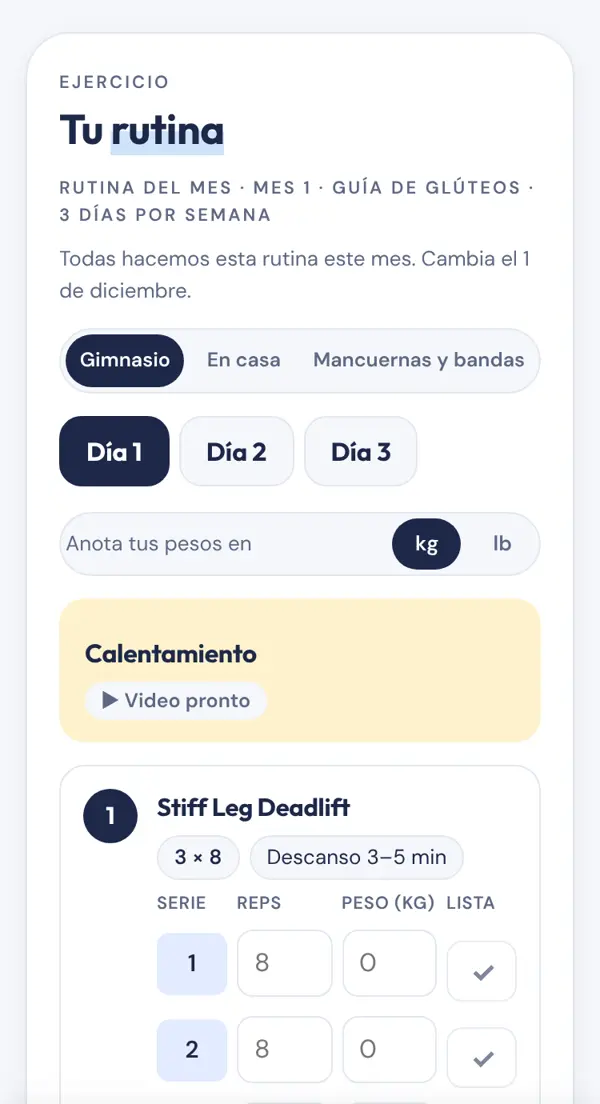
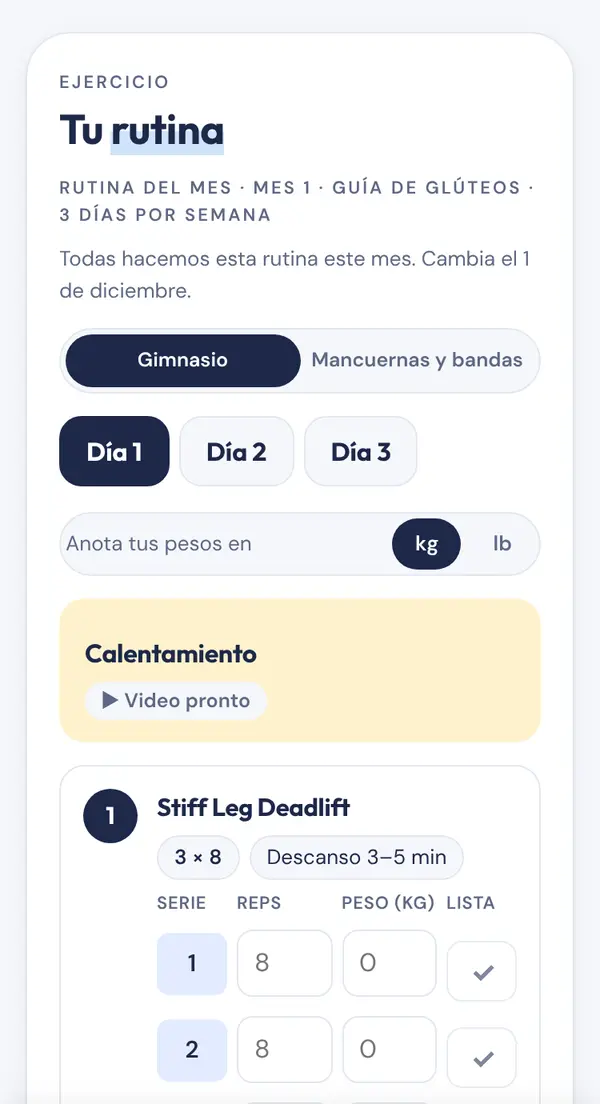
Rutina sin 'En casa', domingo con menú opcional y última vez que abrió la app
Claude-Session: https://claude.ai/code/session_01S2tUWvQ5tkvfoDM66tmKiz

Changed region(s): [[0.12, 0.2772, 0.87, 0.3696]]

diff --git a/app/mi-plan/Super.tsx b/app/mi-plan/Super.tsx
@@ -1,7 +1,7 @@
 "use client";
 import { useEffect, useMemo, useState } from "react";
 import { cantidad, icono, type Ingrediente } from "@/lib/alimentos";
-import { DIAS, TIEMPOS, type Dia, type Plan } from "@/lib/types";
+import { DIAS7, TIEMPOS, diasDe, type Dia, type Plan } from "@/lib/types";
 import { comidaDe, slotDe } from "./Comidas";
 
 const SECCIONES: [RegExp, string][] = [
@@ -13,10 +13,11 @@ const seccion = (i: Ingrediente) => (i.s === "sup" ? "💊 Suplementos y bebidas
 type Modo = "dia" | "semana" | "mes";
 const MODOS: [Modo, string][] = [["dia", "Un día"], ["semana", "Esta semana"], ["mes", "Todo el mes"]];
 
-/** Lista del súper que sale del menú que eligió la paciente, con sus cambios. Lunes a sábado; el domingo es libre. */
+/** Lista del súper que sale del menú que eligió la paciente, con sus cambios. Lunes a sábado, y el domingo si tiene menú. */
 export default function Super({ plan, cambios, orden, planId }: { plan: Plan; cambios: Record<string, Ingrediente>; orden: Record<string, Dia>; planId: string | null }) {
   const [modo, setModoE] = useState<Modo>("semana");
-  const [dia, setDia] = useState<Dia>(() => DIAS[Math.min((new Date().getDay() + 6) % 7, 5)]); // hoy; el domingo, el lunes
+  const dias = diasDe(plan);
+  const [dia, setDia] = useState<Dia>(() => DIAS7[Math.min((new Date().getDay() + 6) % 7, dias.length - 1)]); // hoy; el domingo libre, el sábado
   useEffect(() => { try { const m = localStorage.getItem("super-modo") as Modo | null; if (m && MODOS.some(([k]) => k === m)) setModoE(m); } catch {} }, []);
   const setModo = (m: Modo) => { setModoE(m); try { localStorage.setItem("super-modo", m); } catch {} };
   const key = `super-${planId ?? "plan"}-${modo === "dia" ? `dia-${dia}` : modo}`;
@@ -27,7 +28,7 @@ export default function Super({ plan, cambios, orden, planId }: { plan: Plan; ca
   const { grupos, sinIngredientes } = useMemo(() => {
     const total = new Map<string, { a: Ingrediente; x: number }>();
     const sin: string[] = [];
-    for (const d of modo === "dia" ? [dia] : DIAS)
+    for (const d of modo === "dia" ? [dia] : dias)
       TIEMPOS.forEach((_, i) => {
         const { m, src } = comidaDe(plan, orden, d, i);
         if (!m.titulo) return;
@@ -43,7 +44,7 @@ export default function Super({ plan, cambios, orden, planId }: { plan: Plan; ca
     for (const t of total.values()) g.set(seccion(t.a), [...(g.get(seccion(t.a)) ?? []), t]);
     const orden_ = [...SECCIONES.map(([, n]) => n), "💊 Suplementos y bebidas", "🧂 Otros"];
     return { grupos: [...g.entries()].sort((a, b) => orden_.indexOf(a[0]) - orden_.indexOf(b[0])).map(([n, xs]) => [n, xs.sort((p, q) => p.a.n.localeCompare(q.a.n, "es"))] as const), sinIngredientes: sin };
-  }, [plan, cambios, orden, modo, dia]);
+  }, [plan, cambios, orden, modo, dia, dias]);
 
   const mult = modo === "mes" ? 4 : 1;
   return (
@@ -54,14 +55,14 @@ export default function Super({ plan, cambios, orden, planId }: { plan: Plan; ca
         ))}
       </div>
       {modo === "dia" && (
-        <div className="daychips" role="group" aria-label="Día" style={{ display: "grid", gridTemplateColumns: "repeat(6, 1fr)", gap: 6 }}>
-          {DIAS.map((d) => (
+        <div className="daychips" role="group" aria-label="Día" style={{ display: "grid", gridTemplateColumns: `repeat(${dias.length}, 1fr)`, gap: 6 }}>
+          {dias.map((d) => (
             <button key={d} aria-pressed={dia === d} onClick={() => setDia(d)} style={{ width: "100%", minWidth: 0, padding: 0, height: 40, fontSize: 14 }}><b>{d.slice(0, 3)}</b></button>
           ))}
         </div>
       )}
       <p className="note" style={{ margin: 0 }}>
-        {modo === "dia" ? `Lo que necesitas para tus comidas del ${dia.toLowerCase()}.` : modo === "semana" ? "De lunes a sábado, con los platillos y cambios que elegiste." : "4 semanas con tu menú de ahora. Las verduras y la fruta fresca, mejor cómpralas cada semana."}
+        {modo === "dia" ? `Lo que necesitas para tus comidas del ${dia.toLowerCase()}.` : modo === "semana" ? `De lunes a ${dias.length === 7 ? "domingo" : "sábado"}, con los platillos y cambios que elegiste.` : "4 semanas con tu menú de ahora. Las verduras y la fruta fresca, mejor cómpralas cada semana."}
         {" "}Si cambias un platillo o un alimento, la lista se actualiza sola.
       </p>
       {grupos.length === 0 && <div className="locked">Tu menú todavía no tiene ingredientes con cantidades. Cecy los agrega en tu plan.</div>}

diff --git a/app/mi-plan/PatientApp.tsx b/app/mi-plan/PatientApp.tsx
@@ -1,7 +1,7 @@
 "use client";
 import { useEffect, useState } from "react";
 import Link from "next/link";
-import { DIAS, TIEMPOS, type Patient, type Plan, type Rutina } from "@/lib/types";
+import { DIAS7, TIEMPOS, tieneDomingo, type Patient, type Plan, type Rutina } from "@/lib/types";
 import { CALENTAMIENTO } from "@/lib/gluteos";
 import { mesDelCiclo, proximoCambio } from "@/lib/ciclo";
 import { MealCard, useGustos, type Gustos, comidaDe, opcionesDe, slotDe, useCambios, useOrden, type Cambios, type Orden, TiendaAbierta } from "./Comidas";
@@ -196,10 +196,11 @@ function Hoy({ p, plan, planExiste, planId, planDesde, cambios, orden, diario, g
   if (!plan) return <><Locked planExiste={planExiste} /><Metas p={p} /><Whats /></>;
   const d = di ?? 0;
   const esHoy = d === hoyIdx;
+  const conMenu = d < 6 || tieneDomingo(plan); // el domingo es libre si no trae menú
   const fecha = hoyISO();
   const listas = diario[0][fecha]?.comidas ?? [];
-  const delDia = d < 6 ? TIEMPOS.map((_, i) => {
-    const { m, src } = comidaDe(plan, orden[0], DIAS[d], i);
+  const delDia = conMenu ? TIEMPOS.map((_, i) => {
+    const { m, src } = comidaDe(plan, orden[0], DIAS7[d], i);
     return { ...m, ingredientes: m.ingredientes?.map((o, j) => cambios[0][slotDe(src, i, j)] ?? o) };
   }) : [];
   const aportes = aporte(delDia, plan.meta ?? "comidas");
@@ -216,22 +217,22 @@ function Hoy({ p, plan, planExiste, planId, planDesde, cambios, orden, diario, g
       {p.proxima_cita && <div className="card proxima"><span aria-hidden="true">📅</span><span><span className="eyebrow">Tu próxima consulta</span><br /><b>{p.proxima_cita}</b></span></div>}
       <div className="daychips" aria-label="Día">
         {CORTO.map((l, i) => (
-          <button key={l} aria-pressed={i === d} onClick={() => setDi(i)} aria-label={i === 6 ? "Domingo" : DIAS[i]}>
+          <button key={l} aria-pressed={i === d} onClick={() => setDi(i)} aria-label={DIAS7[i]}>
             <b>{l[0]}</b>{l}
           </button>
         ))}
       </div>
-      <div className="eyebrow">{d === 6 ? "Domingo" : DIAS[d]}</div>
-      {esHoy && d < 6 && plan.meta && <MetaBar meta={plan.meta} aportes={aportes} listas={listas} />}
-      {d === 6 ? (
+      <div className="eyebrow">{DIAS7[d]}</div>
+      {esHoy && conMenu && plan.meta && <MetaBar meta={plan.meta} aportes={aportes} listas={listas} />}
+      {!conMenu ? (
         <div className="tint t-yellow"><h4>🌤 Domingo libre</h4><p>{plan.domingo}</p></div>
       ) : (
         TIEMPOS.map((_, i) => {
-          const { m, src } = comidaDe(plan, orden[0], DIAS[d], i);
+          const { m, src } = comidaDe(plan, orden[0], DIAS7[d], i);
           return m.titulo ? (
             <MealCard key={`${d}-${i}-${src}`} m={m} hora={plan.horarios?.[i] ?? TIEMPOS[i][1]} tiempo={TIEMPOS[i][0]} tintClass={MEAL_TINT[i]}
               slot={(j) => slotDe(src, i, j)} cambios={cambios} sistema={plan.sistema ?? "smae"}
-              opciones={opcionesDe(plan, i).map((o) => [o, plan.menu[o][i].titulo])} actual={src} onElegir={(o) => orden[1](DIAS[d], i, o)}
+              opciones={opcionesDe(plan, i).map((o) => [o, plan.menu[o][i].titulo])} actual={src} onElegir={(o) => orden[1](DIAS7[d], i, o)}
               {...(esHoy ? { lista: listas.includes(i), onLista: () => marcar(i) } : {})}
               gusto={gustos[0][m.titulo]} onGusto={(v) => gustos[1](m.titulo, v)} />
           ) : null;
@@ -288,7 +289,8 @@ function RutinaView({ rutina: fija, ciclo, videos, pid, remoto }: { rutina: Ruti
       <div className="eyebrow">{ciclo?.length ? `Rutina del mes · Mes ${mes + 1} · ` : ""}{rutina.titulo} · {rutina.subtitulo}</div>
       {ciclo?.length ? <p className="note" style={{ margin: "-4px 0 0" }}>{t("Todas hacemos")} esta rutina este mes. Cambia el {proximoCambio()}.</p> : null}
       <div className="seg" role="group" aria-label="Dónde entrenas" style={{ display: "flex" }}>
-        {(["a", "b", "c"] as const).map((k, i) => (
+        {/* Cecy quitó la opción "En casa" (b): solo gimnasio y mancuernas y bandas */}
+        {([["a", 0], ["c", 2]] as const).map(([k, i]) => (
           <button key={k} aria-pressed={o === k} onClick={() => setO(k)} style={{ flex: 1, padding: "7px 6px", fontSize: 12.5 }}>{rutina.opciones[i]}</button>
         ))}
       </div>

diff --git a/app/consultorio/[id]/PlanEditor.tsx b/app/consultorio/[id]/PlanEditor.tsx
@@ -1,6 +1,6 @@
 "use client";
 import { useState, useTransition } from "react";
-import { COLORES, DIAS, GRUPOS, TIEMPOS, planVacio, type Color, type Plan } from "@/lib/types";
+import { COLORES, DIAS7, GRUPOS, TIEMPOS, planVacio, type Color, type Plan } from "@/lib/types";
 import { tint } from "@/components/shared";
 import { guardarPlan } from "../actions";
 import BuscarAlimento from "@/components/BuscarAlimento";
@@ -16,7 +16,7 @@ function normalizar(x: unknown): Plan {
   const base = planVacio();
   const p = { ...base, ...(x as Partial<Plan>) };
   p.menu = { ...base.menu, ...(p.menu ?? {}) };
-  for (const d of DIAS)
+  for (const d of DIAS7)
     p.menu[d] = TIEMPOS.map((_, i) => {
       const m = p.menu[d]?.[i];
       return { titulo: m?.titulo ?? "", detalle: m?.detalle ?? "", ...(m?.ingredientes?.length ? { ingredientes: m.ingredientes } : {}), ...(m?.recomendacion ? { recomendacion: m.recomendacion } : {}) };
@@ -194,8 +194,8 @@ export default function PlanEditor({ id, planId, inicial, anteriores }: { id: st
       </div>
 
       <div className="card">
-        <h3>Menú de lunes a sábado</h3>
-        <p className="note" style={{ marginTop: -4 }}>Arroz, pasta y leguminosas se miden ya cocidos. Deja vacío un tiempo de comida para que no aparezca. Con ingredientes, ella ve la cantidad de cada uno y puede tocar Cambiar; el texto queda como nota de preparación.</p>
+        <h3>Menú de la semana</h3>
+        <p className="note" style={{ marginTop: -4 }}>Arroz, pasta y leguminosas se miden ya cocidos. Deja vacío un tiempo de comida para que no aparezca. Si dejas todo el domingo vacío, a ella le sale como domingo libre. Con ingredientes, ella ve la cantidad de cada uno y puede tocar Cambiar; el texto queda como nota de preparación.</p>
         <label className="field" style={{ maxWidth: 320, marginBottom: 10 }}>Lista de alimentos para los cambios
           <select value={plan.sistema ?? "smae"} onChange={(e) => up((p) => { p.sistema = e.target.value as "smae" | "renal"; })}>
             <option value="smae">SMAE + europeos</option>
@@ -203,7 +203,7 @@ export default function PlanEditor({ id, planId, inicial, anteriores }: { id: st
           </select>
         </label>
         <div className="menu-grid">
-          {DIAS.map((d) => (
+          {DIAS7.map((d) => (
             <div key={d} className="day">
               <h4>{d}</h4>
               {TIEMPOS.map((t, i) => (
@@ -238,7 +238,7 @@ export default function PlanEditor({ id, planId, inicial, anteriores }: { id: st
             </div>
           ))}
         </div>
-        <label className="field" style={{ marginTop: 12 }}>Domingo libre<textarea value={plan.domingo} onChange={(e) => up((p) => { p.domingo = e.target.value; })} /></label>
+        <label className="field" style={{ marginTop: 12 }}>Domingo libre (solo si el domingo no tiene menú)<textarea value={plan.domingo} onChange={(e) => up((p) => { p.domingo = e.target.value; })} /></label>
       </div>
 
       <div className="card">

diff --git a/app/consultorio/PatientList.tsx b/app/consultorio/PatientList.tsx
@@ -1,12 +1,15 @@
 "use client";
 import Link from "next/link";
-import { useState } from "react";
+import { useEffect, useState } from "react";
+import { diasSinAbrir, haceCuanto } from "@/lib/visita";
 
-type Row = { id: string; nombre: string; ciudad: string | null; proxima_cita: string | null };
+type Row = { id: string; nombre: string; ciudad: string | null; proxima_cita: string | null; user_id?: string | null; ultima_visita?: string | null };
 const COLORS = ["var(--pink)", "var(--blue)", "var(--yellow)", "var(--green)", "var(--lilac)"];
 
 export default function PatientList({ rows, current }: { rows: Row[]; current?: string }) {
   const [q, setQ] = useState("");
+  const [ahora, setAhora] = useState<Date | null>(null); // la fecha se calcula en su teléfono, no en el servidor
+  useEffect(() => setAhora(new Date()), []);
   const list = rows.filter((r) => r.nombre.toLowerCase().includes(q.toLowerCase()));
   return (
     <>
@@ -16,7 +19,8 @@ export default function PatientList({ rows, current }: { rows: Row[]; current?: 
           <li key={x.id}>
             <Link className="pbtn" href={`/consultorio/${x.id}`} aria-current={x.id === current}>
               <span className="av" style={{ background: COLORS[i % COLORS.length] }}>{x.nombre.split(" ").map((w) => w[0]).join("").slice(0, 2)}</span>
-              <span><span className="n">{x.nombre}</span><br /><span className="s">{[x.ciudad, x.proxima_cita && `cita: ${x.proxima_cita}`].filter(Boolean).join(" · ")}</span></span>
+              <span><span className="n">{x.nombre}</span><br /><span className="s">{[x.ciudad, x.proxima_cita && `cita: ${x.proxima_cita}`].filter(Boolean).join(" · ")}</span>
+                {ahora && x.user_id && <><br /><span className={`s visto ${(diasSinAbrir(x.ultima_visita, ahora) ?? 99) >= 4 ? "lejos" : ""}`}>📱 {x.ultima_visita ? `Abrió la app: ${haceCuanto(x.ultima_visita, ahora).toLowerCase()}` : "Todavía no abre la app"}</span></>}</span>
             </Link>
           </li>
         ))}

diff --git a/lib/types.ts b/lib/types.ts
@@ -1,5 +1,6 @@
 export const DIAS = ["Lunes", "Martes", "Miércoles", "Jueves", "Viernes", "Sábado"] as const;
-export type Dia = (typeof DIAS)[number];
+export const DIAS7 = [...DIAS, "Domingo"] as const;
+export type Dia = (typeof DIAS7)[number];
 export const TIEMPOS = [
   ["Desayuno", "8:00"],
   ["Colación 1", "11:00"],
@@ -31,8 +32,8 @@ export type Plan = {
   horarios: string[]; // 5 horas, una por tiempo de comida
   enfoques: Enfoque[];
   porciones: Record<string, (number | null)[]>; // grupo -> 5 valores
-  menu: Record<Dia, Comida[]>; // 5 comidas por día
-  domingo: string;
+  menu: Record<Dia, Comida[]>; // 5 comidas por día; los planes viejos no traen Domingo
+  domingo: string; // texto del domingo libre, cuando el domingo no tiene menú
   suplementos: Suplemento[];
   tips: Tip[];
   sistema?: Sistema; // de qué lista salen los cambios; smae si no se dice
@@ -62,11 +63,16 @@ export type Patient = {
   suplementos_visible?: boolean; // puede ver la pestaña Suplementos (columna de la migración 0004)
   invitada_at: string | null;
   diario_consentido_at?: string | null; // aceptó compartir su diario con Cecy
+  ultima_visita?: string | null; // última vez que abrió la app (migración 0005)
   created_at: string;
 };
 
+/** El domingo tiene menú solo si Cecy le puso platillos; si no, es domingo libre. */
+export const tieneDomingo = (p: Plan) => !!p.menu.Domingo?.some((m) => m?.titulo?.trim());
+export const diasDe = (p: Plan): readonly Dia[] => (tieneDomingo(p) ? DIAS7 : DIAS);
+
 export function planVacio(): Plan {
-  const menu = Object.fromEntries(DIAS.map((d) => [d, TIEMPOS.map(() => ({ titulo: "", detalle: "" }))])) as Record<Dia, Comida[]>;
+  const menu = Object.fromEntries(DIAS7.map((d) => [d, TIEMPOS.map(() => ({ titulo: "", detalle: "" }))])) as Record<Dia, Comida[]>;
   return {
     titulo: "Plan 1 · Nutrición basada en tus análisis",
     inicio: "",

diff --git a/app/mi-plan/Comidas.tsx b/app/mi-plan/Comidas.tsx
@@ -2,7 +2,7 @@
 import { useEffect, useMemo, useState, createContext, useContext } from "react";
 import { BANDERA, NOTA_EU, PAIS, buscar, cantidad, cargarAlimentos, comoIngrediente, icono, iconoGrupo, nombreSubgrupo, type Alimento, type Ingrediente, type Sistema } from "@/lib/alimentos";
 import { MERCADO_DE, linkAmazon, linkML, productoDeSup } from "@/lib/tienda";
-import { DIAS, type Comida, type Dia, type Plan } from "@/lib/types";
+import { diasDe, type Comida, type Dia, type Plan } from "@/lib/types";
 import { supabaseBrowser } from "@/lib/supabase/client";
 import { prohibido, useAjustes } from "@/lib/paciente";
 
@@ -50,14 +50,14 @@ export type Orden = ReturnType<typeof useOrden>;
 /** La comida que toca en ese día y tiempo, y de qué día del plan viene. Los cambios de ingredientes viajan con el platillo. */
 export function comidaDe(plan: Plan, orden: Record<string, Dia>, dia: Dia, i: number) {
   const src = orden[`${dia}|${i}`] ?? dia;
-  return { m: plan.menu[src]?.[i] ?? plan.menu[dia][i], src };
+  return { m: plan.menu[src]?.[i] ?? plan.menu[dia]?.[i] ?? { titulo: "", detalle: "" }, src };
 }
 
 /** Las opciones de ese tiempo de comida en la semana (sin repetir platillos iguales). */
 export function opcionesDe(plan: Plan, i: number) {
   const vistos = new Set<string>();
-  return DIAS.filter((d) => {
-    const t = plan.menu[d][i]?.titulo?.trim();
+  return diasDe(plan).filter((d) => {
+    const t = plan.menu[d]?.[i]?.titulo?.trim();
     if (!t || vistos.has(t)) return false;
     vistos.add(t);
     return true;

diff --git a/app/consultorio/[id]/AccessPanel.tsx b/app/consultorio/[id]/AccessPanel.tsx
@@ -2,6 +2,7 @@
 import { useState, useTransition } from "react";
 import type { Patient } from "@/lib/types";
 import { cambiarAcceso, invitar } from "../actions";
+import { haceCuanto } from "@/lib/visita";
 
 export default function AccessPanel({ p }: { p: Patient }) {
   const [pending, start] = useTransition();
@@ -19,6 +20,7 @@ export default function AccessPanel({ p }: { p: Patient }) {
       <dl className="kv" style={{ marginBottom: 10 }}>
         <dt>Correo</dt><dd style={{ wordBreak: "break-all" }}>{p.email}</dd>
         <dt>Cuenta</dt><dd><span className={`pill ${estado === "Sin invitar" ? "p-mid" : "p-ok"}`}>{estado}</span></dd>
+        {p.user_id && <><dt>Abrió la app</dt><dd suppressHydrationWarning>{p.ultima_visita ? `${haceCuanto(p.ultima_visita)} · ${new Date(p.ultima_visita).toLocaleString("es-MX", { day: "numeric", month: "short", hour: "numeric", minute: "2-digit" })}` : "Todavía no"}</dd></>}
       </dl>
       <button className="btn" disabled={pending} onClick={() => start(async () => setMsg(await invitar(p.id)))}>
         {p.invitada_at ? "Mandar enlace de acceso otra vez" : "Mandar invitación"}

diff --git a/lib/visita.ts b/lib/visita.ts
@@ -1,0 +1,16 @@
+/** "Hoy", "Ayer", "Hace 3 días"… para la última vez que la paciente abrió la app. */
+export function haceCuanto(iso: string | null | undefined, ahora = new Date()): string {
+  if (!iso) return "Nunca";
+  const d = new Date(iso);
+  const dia = (x: Date) => Math.floor((x.getTime() - x.getTimezoneOffset() * 60000) / 86400000);
+  const n = dia(ahora) - dia(d);
+  if (n <= 0) return `Hoy, ${d.toLocaleTimeString("es-MX", { hour: "numeric", minute: "2-digit" })}`;
+  if (n === 1) return "Ayer";
+  if (n < 30) return `Hace ${n} días`;
+  return d.toLocaleDateString("es-MX", { day: "numeric", month: "short", year: "numeric" });
+}
+
+/** Días sin abrir la app; null si nunca la abrió. */
+export function diasSinAbrir(iso: string | null | undefined, ahora = new Date()): number | null {
+  return iso ? Math.floor((ahora.getTime() - new Date(iso).getTime()) / 86400000) : null;
+}

diff --git a/app/mi-plan/page.tsx b/app/mi-plan/page.tsx
@@ -30,6 +30,9 @@ export default async function MiPlan({ searchParams }: { searchParams: Promise<{
     );
   }
 
+  // Para que Cecy vea cuándo abrió la app por última vez (no cuenta cuando Cecy la ve como paciente).
+  if (patient.user_id === user.id) await sb.rpc("marcar_visita").then(() => {}, () => {});
+
   const [planRes, rutRes, vidRes] = await Promise.all([
     sb.from("plans").select("id, data, created_at").eq("patient_id", patient.id).eq("activo", true).order("updated_at", { ascending: false }).limit(1).maybeSingle(),
     patient.routine_key && patient.routine_key !== CICLO_KEY ? sb.from("routine_templates").select("key, data").in("key", [patient.routine_key]) : Promise.resolve({ data: null }),

diff --git a/app/globals.css b/app/globals.css
@@ -41,6 +41,7 @@ button:focus-visible,input:focus-visible,a:focus-visible{outline:2px solid var(-
 .av{width:38px;height:38px;border-radius:50%;display:grid;place-items:center;font-family:var(--display);font-weight:600;color:var(--ink)}
 .pbtn .n{font-weight:600}
 .pbtn .s{font-size:12.5px;color:var(--muted)}
+.pbtn .visto{font-size:12px}.pbtn .visto.lejos{color:var(--warn)}
 .newp{margin-top:auto;border:1px dashed var(--line);background:none;border-radius:12px;padding:10px;color:var(--muted);font-weight:600}
 
 .main{padding:22px clamp(16px,3vw,36px) 40px;min-width:0}

diff --git a/app/consultorio/Sidebar.tsx b/app/consultorio/Sidebar.tsx
@@ -4,7 +4,7 @@ import PatientList from "./PatientList";
 
 export default async function Sidebar({ current }: { current?: string }) {
   const sb = await supabaseServer();
-  const { data } = await sb.from("patients").select("id, nombre, ciudad, proxima_cita").order("nombre");
+  const { data } = await sb.from("patients").select("*").order("nombre");
   return (
     <aside className="side">
       <h2>Mis pacientes <span className="note">({data?.length ?? 0})</span></h2>
